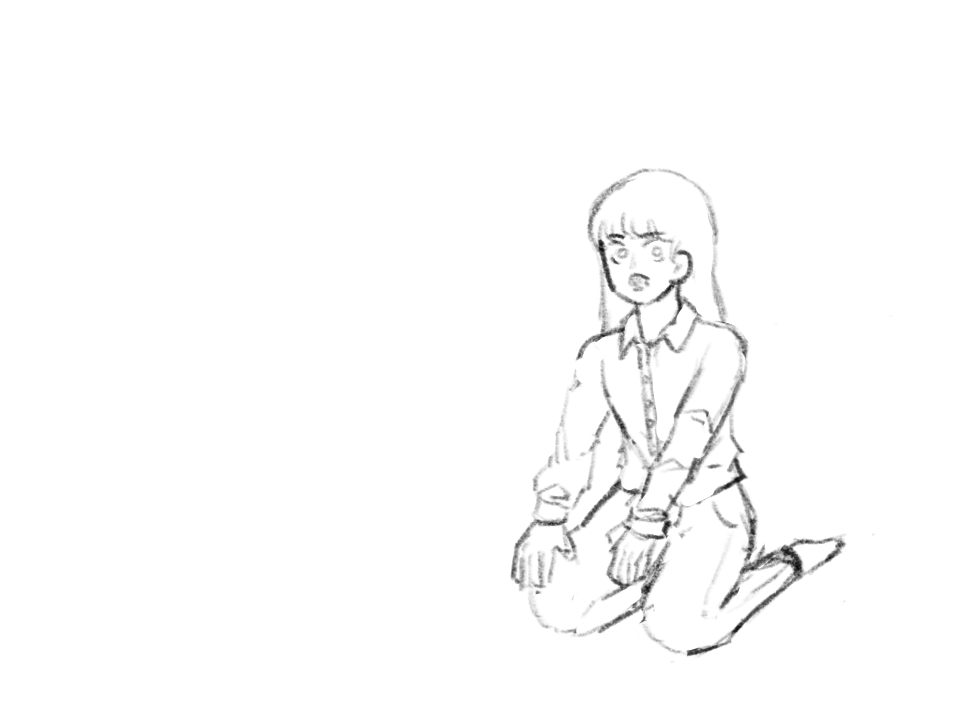
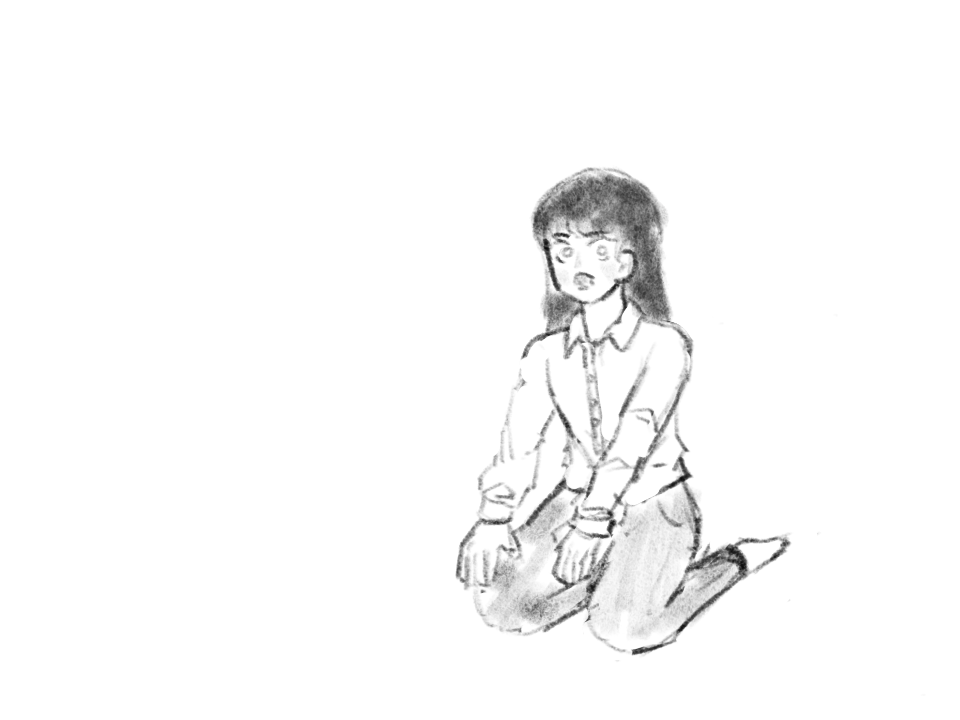
25/12/13 18:41
미니게임2 에셋 적용
장애물 위치 수정

Changed region(s): [[0.4688, 0.2139, 0.875, 0.9167]]

diff --git a/js/minigames.js b/js/minigames.js
@@ -40,16 +40,20 @@ function initMinigame() {
     mgIce.obstacles = [];
     
     // [장애물 1] 중앙 상단 사물함 (길쭉함)
-    mgIce.obstacles.push({ x: 350, y: 150, w: 70, h: 200, type: "LOCKER" });
+    mgIce.obstacles.push({ x: 350, y: 200, w: 80, h: 200, type: "StBoy" });
     
     // [장애물 2] 우측 하단 사물함
-    mgIce.obstacles.push({ x: 750, y: 350, w: 70, h: 200, type: "LOCKER" });
+    mgIce.obstacles.push({ x: 750, y: 350, w: 80, h: 200, type: "StBoy" });
 
     // [장애물 3] 길막고 있는 학생 (왼쪽)
-    mgIce.obstacles.push({ x: 200, y: 150, w: 50, h: 100, type: "STUDENT" });
+    mgIce.obstacles.push({ x: 150, y: 150, w: 70, h: 190, type: "StGirl" });
 
     // [장애물 4] 길막고 있는 학생 (중앙 하단)
-    mgIce.obstacles.push({ x: 550, y: 550, w: 50, h: 100, type: "STUDENT" });
+    mgIce.obstacles.push({ x: 550, y: 500, w: 70, h: 190, type: "StGirl" });
+    // 소화기
+    mgIce.obstacles.push({ x: 270, y: 610, w: 40, h: 80, type: "Extinguisher" });
+    mgIce.obstacles.push({ x: 500, y: 50, w: 40, h: 80, type: "Extinguisher" });
+    mgIce.obstacles.push({ x: 600, y: 240, w: 40, h: 80, type: "Extinguisher" });
   }
   else if (minigameType === "FISHING") {
   mgTimer = 900;       // 제한시간 (약 15초)
@@ -245,11 +249,11 @@ function playIce() {
   for (let obs of mgIce.obstacles) {
     rectMode(CORNER); // 사각형 그리기 편하게 모드 변경
     
-    if (obs.type === "LOCKER") {
+    if (obs.type === "StBoy") {
       // 사물함 (이미지 있으면 이미지, 없으면 철제 색)
-      if (typeof imgLocker !== 'undefined' && imgLocker) {
+      if (typeof imgStBoy !== 'undefined' && imgStBoy) {
         imageMode(CORNER);
-        image(imgLocker, obs.x, obs.y, obs.w, obs.h);
+        image(imgStBoy, obs.x, obs.y, obs.w, obs.h);
       } else {
         fill(100, 100, 120); stroke(0); strokeWeight(2);
         rect(obs.x, obs.y, obs.w, obs.h);
@@ -257,16 +261,21 @@ function playIce() {
         line(obs.x+10, obs.y+20, obs.x+obs.w-10, obs.y+20);
         line(obs.x+10, obs.y+40, obs.x+obs.w-10, obs.y+40);
       }
-    } else if (obs.type === "STUDENT") {
+    } else if (obs.type === "StGirl") {
       // 학생 (이미지 있으면 이미지, 없으면 사람 색)
-      if (typeof imgStudentObs !== 'undefined' && imgStudentObs) {
+      if (typeof imgStGirl !== 'undefined' && imgStGirl) {
         imageMode(CORNER);
-        image(imgStudentObs, obs.x, obs.y, obs.w, obs.h);
+        image(imgStGirl, obs.x, obs.y, obs.w, obs.h);
       } else {
         fill(50, 50, 150); noStroke();
         rect(obs.x, obs.y, obs.w, obs.h); // 몸통
         fill(255, 200, 180);
         ellipse(obs.x + obs.w/2, obs.y - 10, 30, 30); // 머리 (간단 표현)
+      }
+    } else if (obs.type === "Extinguisher") {
+      if (typeof imgExtinguisher !== 'undefined' && imgExtinguisher){
+      imageMode(CORNER);
+      image(imgExtinguisher,obs.x,obs.y,obs.w,obs.h);
       }
     }
   }

diff --git a/sketch.js b/sketch.js
@@ -32,8 +32,9 @@ function preload() {
   imgTarget = loadImage("assets/target_child.png")
   runningPlayer=loadImage("assets/playericon.png")
   
-  // imgLocker = loadImage("assets/locker.png"); 
-  // imgStudentObs = loadImage("assets/student_obs.png");
+  imgStBoy = loadImage("assets/standing_boy.png"); 
+  imgStGirl = loadImage("assets/standing_girl.png");
+  imgExtinguisher=loadImage("assets/fire_extinguisher.png")
   imgObstacle = loadImage('assets/obstacle.png');
   imgCprKit = loadImage('assets/cpr_kit.png');
   imgPill = loadImage('assets/pill.png');

diff --git a/js/variables.js b/js/variables.js
@@ -11,6 +11,9 @@ let imgCprKit, imgPill, imgFirstAid;
 let imgObstacle;
 let imgMain
 let runningPlayer
+let imgStBoy
+let imgStGirl
+let imgExtinguisher
 
 // === 게임 상태 변수 ===
 let jsonData;
